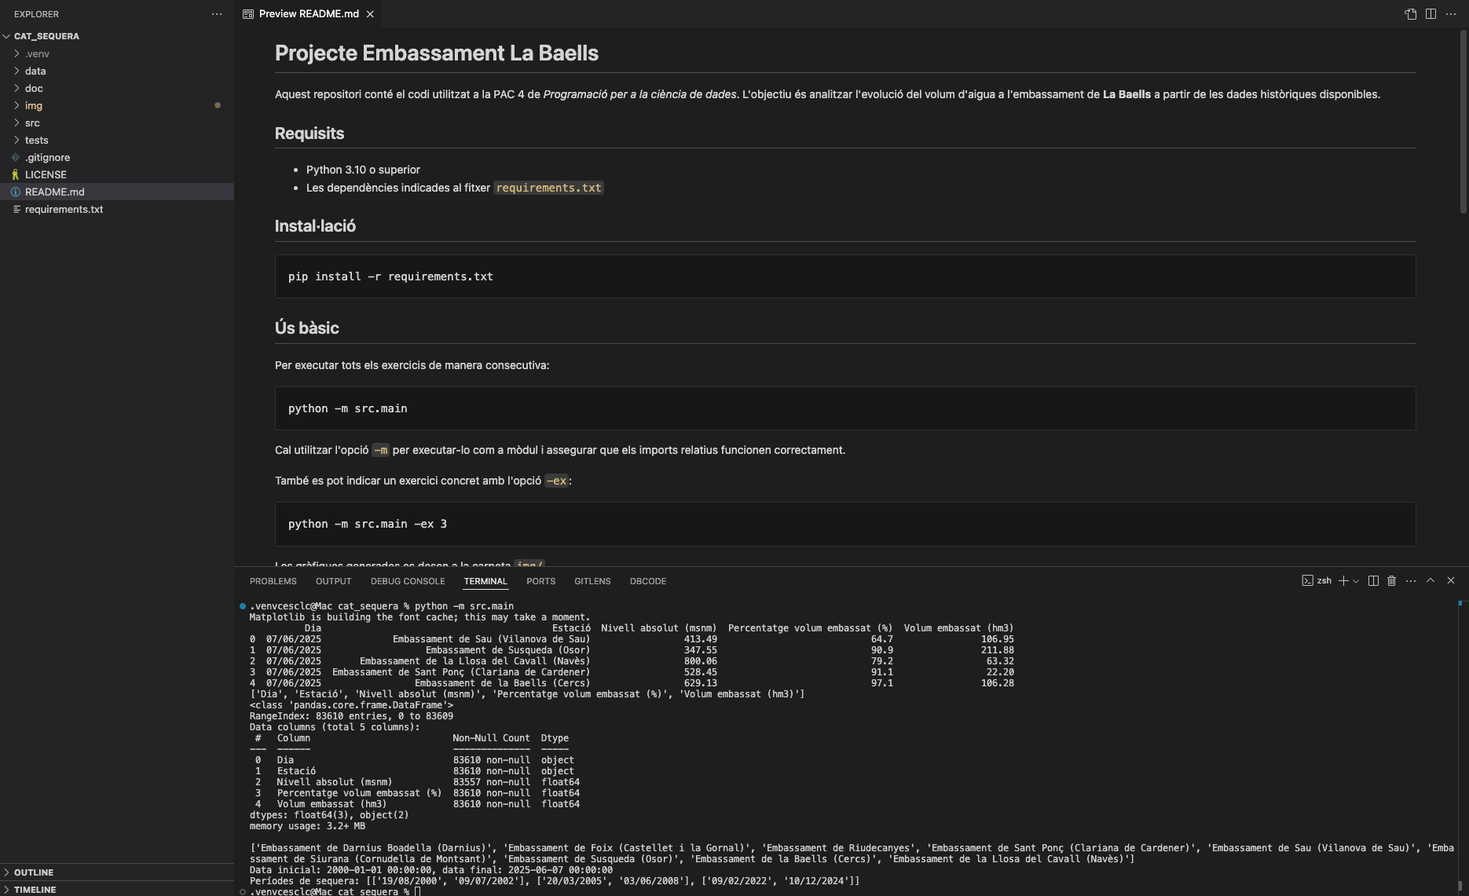
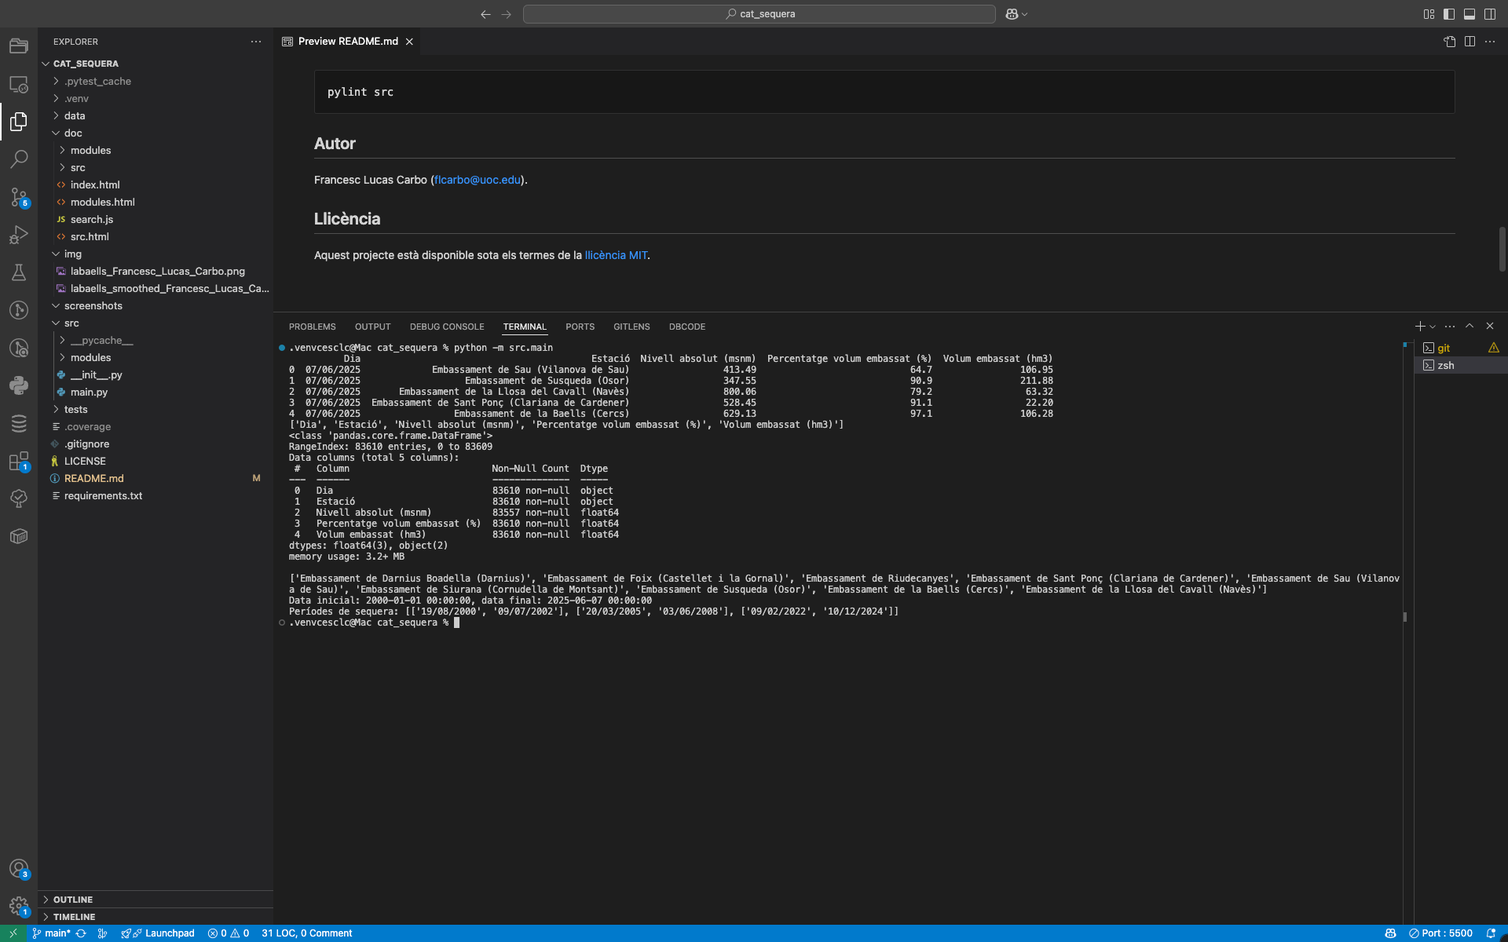
FInal

diff --git a/doc/src/modules/exercise5.html b/doc/src/modules/exercise5.html
@@ -62,26 +62,28 @@
 </span><span id="L-4"><a href="#L-4"><span class="linenos"> 4</span></a><span class="kn">import</span><span class="w"> </span><span class="nn">pandas</span><span class="w"> </span><span class="k">as</span><span class="w"> </span><span class="nn">pd</span>
 </span><span id="L-5"><a href="#L-5"><span class="linenos"> 5</span></a>
 </span><span id="L-6"><a href="#L-6"><span class="linenos"> 6</span></a>
-</span><span id="L-7"><a href="#L-7"><span class="linenos"> 7</span></a><span class="k">def</span><span class="w"> </span><span class="nf">calcula_periodes</span><span class="p">(</span><span class="n">df</span><span class="p">:</span> <span class="n">pd</span><span class="o">.</span><span class="n">DataFrame</span><span class="p">,</span> <span class="n">suau</span><span class="p">:</span> <span class="n">pd</span><span class="o">.</span><span class="n">Series</span><span class="p">,</span> <span class="n">llindar</span><span class="p">:</span> <span class="nb">float</span> <span class="o">=</span> <span class="mf">60.0</span><span class="p">)</span> <span class="o">-&gt;</span> <span class="n">List</span><span class="p">[</span><span class="n">List</span><span class="p">[</span><span class="n">pd</span><span class="o">.</span><span class="n">Timestamp</span><span class="p">]]:</span>
-</span><span id="L-8"><a href="#L-8"><span class="linenos"> 8</span></a><span class="w">    </span><span class="sd">&quot;&quot;&quot;Calcula els períodes on el senyal suavitzat està per sota del llindar.</span>
-</span><span id="L-9"><a href="#L-9"><span class="linenos"> 9</span></a>
-</span><span id="L-10"><a href="#L-10"><span class="linenos">10</span></a><span class="sd">    Retorna una llista amb les dates d&#39;inici i fi de cada període en format</span>
-</span><span id="L-11"><a href="#L-11"><span class="linenos">11</span></a><span class="sd">    ``pd.Timestamp``.</span>
-</span><span id="L-12"><a href="#L-12"><span class="linenos">12</span></a><span class="sd">    &quot;&quot;&quot;</span>
-</span><span id="L-13"><a href="#L-13"><span class="linenos">13</span></a>    <span class="n">en_sequera</span> <span class="o">=</span> <span class="n">suau</span> <span class="o">&lt;</span> <span class="n">llindar</span>
-</span><span id="L-14"><a href="#L-14"><span class="linenos">14</span></a>    <span class="n">periodes</span><span class="p">:</span> <span class="n">List</span><span class="p">[</span><span class="n">List</span><span class="p">[</span><span class="n">pd</span><span class="o">.</span><span class="n">Timestamp</span><span class="p">]]</span> <span class="o">=</span> <span class="p">[]</span>
-</span><span id="L-15"><a href="#L-15"><span class="linenos">15</span></a>    <span class="n">inici</span><span class="p">:</span> <span class="n">pd</span><span class="o">.</span><span class="n">Timestamp</span> <span class="o">|</span> <span class="kc">None</span> <span class="o">=</span> <span class="kc">None</span>
-</span><span id="L-16"><a href="#L-16"><span class="linenos">16</span></a>    <span class="k">for</span> <span class="n">idx</span><span class="p">,</span> <span class="n">en</span> <span class="ow">in</span> <span class="n">en_sequera</span><span class="o">.</span><span class="n">items</span><span class="p">():</span>
-</span><span id="L-17"><a href="#L-17"><span class="linenos">17</span></a>        <span class="k">if</span> <span class="n">en</span> <span class="ow">and</span> <span class="n">inici</span> <span class="ow">is</span> <span class="kc">None</span><span class="p">:</span>
-</span><span id="L-18"><a href="#L-18"><span class="linenos">18</span></a>            <span class="n">inici</span> <span class="o">=</span> <span class="n">df</span><span class="o">.</span><span class="n">loc</span><span class="p">[</span><span class="n">idx</span><span class="p">,</span> <span class="s1">&#39;dia&#39;</span><span class="p">]</span>
-</span><span id="L-19"><a href="#L-19"><span class="linenos">19</span></a>        <span class="k">elif</span> <span class="ow">not</span> <span class="n">en</span> <span class="ow">and</span> <span class="n">inici</span> <span class="ow">is</span> <span class="ow">not</span> <span class="kc">None</span><span class="p">:</span>
-</span><span id="L-20"><a href="#L-20"><span class="linenos">20</span></a>            <span class="n">fi</span> <span class="o">=</span> <span class="n">df</span><span class="o">.</span><span class="n">loc</span><span class="p">[</span><span class="n">idx</span> <span class="o">-</span> <span class="mi">1</span><span class="p">,</span> <span class="s1">&#39;dia&#39;</span><span class="p">]</span>
-</span><span id="L-21"><a href="#L-21"><span class="linenos">21</span></a>            <span class="n">periodes</span><span class="o">.</span><span class="n">append</span><span class="p">([</span><span class="n">inici</span><span class="p">,</span> <span class="n">fi</span><span class="p">])</span>
-</span><span id="L-22"><a href="#L-22"><span class="linenos">22</span></a>            <span class="n">inici</span> <span class="o">=</span> <span class="kc">None</span>
-</span><span id="L-23"><a href="#L-23"><span class="linenos">23</span></a>    <span class="k">if</span> <span class="n">inici</span> <span class="ow">is</span> <span class="ow">not</span> <span class="kc">None</span><span class="p">:</span>
-</span><span id="L-24"><a href="#L-24"><span class="linenos">24</span></a>        <span class="n">fi</span> <span class="o">=</span> <span class="n">df</span><span class="o">.</span><span class="n">loc</span><span class="p">[</span><span class="n">en_sequera</span><span class="o">.</span><span class="n">index</span><span class="p">[</span><span class="o">-</span><span class="mi">1</span><span class="p">],</span> <span class="s1">&#39;dia&#39;</span><span class="p">]</span>
-</span><span id="L-25"><a href="#L-25"><span class="linenos">25</span></a>        <span class="n">periodes</span><span class="o">.</span><span class="n">append</span><span class="p">([</span><span class="n">inici</span><span class="p">,</span> <span class="n">fi</span><span class="p">])</span>
-</span><span id="L-26"><a href="#L-26"><span class="linenos">26</span></a>    <span class="k">return</span> <span class="n">periodes</span>
+</span><span id="L-7"><a href="#L-7"><span class="linenos"> 7</span></a><span class="k">def</span><span class="w"> </span><span class="nf">calcula_periodes</span><span class="p">(</span>
+</span><span id="L-8"><a href="#L-8"><span class="linenos"> 8</span></a>    <span class="n">df</span><span class="p">:</span> <span class="n">pd</span><span class="o">.</span><span class="n">DataFrame</span><span class="p">,</span> <span class="n">suau</span><span class="p">:</span> <span class="n">pd</span><span class="o">.</span><span class="n">Series</span><span class="p">,</span> <span class="n">llindar</span><span class="p">:</span> <span class="nb">float</span> <span class="o">=</span> <span class="mf">60.0</span>
+</span><span id="L-9"><a href="#L-9"><span class="linenos"> 9</span></a>    <span class="p">)</span> <span class="o">-&gt;</span> <span class="n">List</span><span class="p">[</span><span class="n">List</span><span class="p">[</span><span class="n">pd</span><span class="o">.</span><span class="n">Timestamp</span><span class="p">]]:</span>
+</span><span id="L-10"><a href="#L-10"><span class="linenos">10</span></a><span class="w">    </span><span class="sd">&quot;&quot;&quot;Calcula els períodes on el senyal suavitzat està per sota del llindar.</span>
+</span><span id="L-11"><a href="#L-11"><span class="linenos">11</span></a>
+</span><span id="L-12"><a href="#L-12"><span class="linenos">12</span></a><span class="sd">    Retorna una llista amb les dates d&#39;inici i fi de cada període en format</span>
+</span><span id="L-13"><a href="#L-13"><span class="linenos">13</span></a><span class="sd">    ``pd.Timestamp``.</span>
+</span><span id="L-14"><a href="#L-14"><span class="linenos">14</span></a><span class="sd">    &quot;&quot;&quot;</span>
+</span><span id="L-15"><a href="#L-15"><span class="linenos">15</span></a>    <span class="n">en_sequera</span> <span class="o">=</span> <span class="n">suau</span> <span class="o">&lt;</span> <span class="n">llindar</span>
+</span><span id="L-16"><a href="#L-16"><span class="linenos">16</span></a>    <span class="n">periodes</span><span class="p">:</span> <span class="n">List</span><span class="p">[</span><span class="n">List</span><span class="p">[</span><span class="n">pd</span><span class="o">.</span><span class="n">Timestamp</span><span class="p">]]</span> <span class="o">=</span> <span class="p">[]</span>
+</span><span id="L-17"><a href="#L-17"><span class="linenos">17</span></a>    <span class="n">inici</span><span class="p">:</span> <span class="n">pd</span><span class="o">.</span><span class="n">Timestamp</span> <span class="o">|</span> <span class="kc">None</span> <span class="o">=</span> <span class="kc">None</span>
+</span><span id="L-18"><a href="#L-18"><span class="linenos">18</span></a>    <span class="k">for</span> <span class="n">idx</span><span class="p">,</span> <span class="n">en</span> <span class="ow">in</span> <span class="n">en_sequera</span><span class="o">.</span><span class="n">items</span><span class="p">():</span>
+</span><span id="L-19"><a href="#L-19"><span class="linenos">19</span></a>        <span class="k">if</span> <span class="n">en</span> <span class="ow">and</span> <span class="n">inici</span> <span class="ow">is</span> <span class="kc">None</span><span class="p">:</span>
+</span><span id="L-20"><a href="#L-20"><span class="linenos">20</span></a>            <span class="n">inici</span> <span class="o">=</span> <span class="n">df</span><span class="o">.</span><span class="n">loc</span><span class="p">[</span><span class="n">idx</span><span class="p">,</span> <span class="s1">&#39;dia&#39;</span><span class="p">]</span>
+</span><span id="L-21"><a href="#L-21"><span class="linenos">21</span></a>        <span class="k">elif</span> <span class="ow">not</span> <span class="n">en</span> <span class="ow">and</span> <span class="n">inici</span> <span class="ow">is</span> <span class="ow">not</span> <span class="kc">None</span><span class="p">:</span>
+</span><span id="L-22"><a href="#L-22"><span class="linenos">22</span></a>            <span class="n">fi</span> <span class="o">=</span> <span class="n">df</span><span class="o">.</span><span class="n">loc</span><span class="p">[</span><span class="n">idx</span> <span class="o">-</span> <span class="mi">1</span><span class="p">,</span> <span class="s1">&#39;dia&#39;</span><span class="p">]</span>
+</span><span id="L-23"><a href="#L-23"><span class="linenos">23</span></a>            <span class="n">periodes</span><span class="o">.</span><span class="n">append</span><span class="p">([</span><span class="n">inici</span><span class="p">,</span> <span class="n">fi</span><span class="p">])</span>
+</span><span id="L-24"><a href="#L-24"><span class="linenos">24</span></a>            <span class="n">inici</span> <span class="o">=</span> <span class="kc">None</span>
+</span><span id="L-25"><a href="#L-25"><span class="linenos">25</span></a>    <span class="k">if</span> <span class="n">inici</span> <span class="ow">is</span> <span class="ow">not</span> <span class="kc">None</span><span class="p">:</span>
+</span><span id="L-26"><a href="#L-26"><span class="linenos">26</span></a>        <span class="n">fi</span> <span class="o">=</span> <span class="n">df</span><span class="o">.</span><span class="n">loc</span><span class="p">[</span><span class="n">en_sequera</span><span class="o">.</span><span class="n">index</span><span class="p">[</span><span class="o">-</span><span class="mi">1</span><span class="p">],</span> <span class="s1">&#39;dia&#39;</span><span class="p">]</span>
+</span><span id="L-27"><a href="#L-27"><span class="linenos">27</span></a>        <span class="n">periodes</span><span class="o">.</span><span class="n">append</span><span class="p">([</span><span class="n">inici</span><span class="p">,</span> <span class="n">fi</span><span class="p">])</span>
+</span><span id="L-28"><a href="#L-28"><span class="linenos">28</span></a>    <span class="k">return</span> <span class="n">periodes</span>
 </span></pre></div>
 
 
@@ -97,26 +99,28 @@
 
     </div>
     <a class="headerlink" href="#calcula_periodes"></a>
-            <div class="pdoc-code codehilite"><pre><span></span><span id="calcula_periodes-8"><a href="#calcula_periodes-8"><span class="linenos"> 8</span></a><span class="k">def</span><span class="w"> </span><span class="nf">calcula_periodes</span><span class="p">(</span><span class="n">df</span><span class="p">:</span> <span class="n">pd</span><span class="o">.</span><span class="n">DataFrame</span><span class="p">,</span> <span class="n">suau</span><span class="p">:</span> <span class="n">pd</span><span class="o">.</span><span class="n">Series</span><span class="p">,</span> <span class="n">llindar</span><span class="p">:</span> <span class="nb">float</span> <span class="o">=</span> <span class="mf">60.0</span><span class="p">)</span> <span class="o">-&gt;</span> <span class="n">List</span><span class="p">[</span><span class="n">List</span><span class="p">[</span><span class="n">pd</span><span class="o">.</span><span class="n">Timestamp</span><span class="p">]]:</span>
-</span><span id="calcula_periodes-9"><a href="#calcula_periodes-9"><span class="linenos"> 9</span></a><span class="w">    </span><span class="sd">&quot;&quot;&quot;Calcula els períodes on el senyal suavitzat està per sota del llindar.</span>
-</span><span id="calcula_periodes-10"><a href="#calcula_periodes-10"><span class="linenos">10</span></a>
-</span><span id="calcula_periodes-11"><a href="#calcula_periodes-11"><span class="linenos">11</span></a><span class="sd">    Retorna una llista amb les dates d&#39;inici i fi de cada període en format</span>
-</span><span id="calcula_periodes-12"><a href="#calcula_periodes-12"><span class="linenos">12</span></a><span class="sd">    ``pd.Timestamp``.</span>
-</span><span id="calcula_periodes-13"><a href="#calcula_periodes-13"><span class="linenos">13</span></a><span class="sd">    &quot;&quot;&quot;</span>
-</span><span id="calcula_periodes-14"><a href="#calcula_periodes-14"><span class="linenos">14</span></a>    <span class="n">en_sequera</span> <span class="o">=</span> <span class="n">suau</span> <span class="o">&lt;</span> <span class="n">llindar</span>
-</span><span id="calcula_periodes-15"><a href="#calcula_periodes-15"><span class="linenos">15</span></a>    <span class="n">periodes</span><span class="p">:</span> <span class="n">List</span><span class="p">[</span><span class="n">List</span><span class="p">[</span><span class="n">pd</span><span class="o">.</span><span class="n">Timestamp</span><span class="p">]]</span> <span class="o">=</span> <span class="p">[]</span>
-</span><span id="calcula_periodes-16"><a href="#calcula_periodes-16"><span class="linenos">16</span></a>    <span class="n">inici</span><span class="p">:</span> <span class="n">pd</span><span class="o">.</span><span class="n">Timestamp</span> <span class="o">|</span> <span class="kc">None</span> <span class="o">=</span> <span class="kc">None</span>
-</span><span id="calcula_periodes-17"><a href="#calcula_periodes-17"><span class="linenos">17</span></a>    <span class="k">for</span> <span class="n">idx</span><span class="p">,</span> <span class="n">en</span> <span class="ow">in</span> <span class="n">en_sequera</span><span class="o">.</span><span class="n">items</span><span class="p">():</span>
-</span><span id="calcula_periodes-18"><a href="#calcula_periodes-18"><span class="linenos">18</span></a>        <span class="k">if</span> <span class="n">en</span> <span class="ow">and</span> <span class="n">inici</span> <span class="ow">is</span> <span class="kc">None</span><span class="p">:</span>
-</span><span id="calcula_periodes-19"><a href="#calcula_periodes-19"><span class="linenos">19</span></a>            <span class="n">inici</span> <span class="o">=</span> <span class="n">df</span><span class="o">.</span><span class="n">loc</span><span class="p">[</span><span class="n">idx</span><span class="p">,</span> <span class="s1">&#39;dia&#39;</span><span class="p">]</span>
-</span><span id="calcula_periodes-20"><a href="#calcula_periodes-20"><span class="linenos">20</span></a>        <span class="k">elif</span> <span class="ow">not</span> <span class="n">en</span> <span class="ow">and</span> <span class="n">inici</span> <span class="ow">is</span> <span class="ow">not</span> <span class="kc">None</span><span class="p">:</span>
-</span><span id="calcula_periodes-21"><a href="#calcula_periodes-21"><span class="linenos">21</span></a>            <span class="n">fi</span> <span class="o">=</span> <span class="n">df</span><span class="o">.</span><span class="n">loc</span><span class="p">[</span><span class="n">idx</span> <span class="o">-</span> <span class="mi">1</span><span class="p">,</span> <span class="s1">&#39;dia&#39;</span><span class="p">]</span>
-</span><span id="calcula_periodes-22"><a href="#calcula_periodes-22"><span class="linenos">22</span></a>            <span class="n">periodes</span><span class="o">.</span><span class="n">append</span><span class="p">([</span><span class="n">inici</span><span class="p">,</span> <span class="n">fi</span><span class="p">])</span>
-</span><span id="calcula_periodes-23"><a href="#calcula_periodes-23"><span class="linenos">23</span></a>            <span class="n">inici</span> <span class="o">=</span> <span class="kc">None</span>
-</span><span id="calcula_periodes-24"><a href="#calcula_periodes-24"><span class="linenos">24</span></a>    <span class="k">if</span> <span class="n">inici</span> <span class="ow">is</span> <span class="ow">not</span> <span class="kc">None</span><span class="p">:</span>
-</span><span id="calcula_periodes-25"><a href="#calcula_periodes-25"><span class="linenos">25</span></a>        <span class="n">fi</span> <span class="o">=</span> <span class="n">df</span><span class="o">.</span><span class="n">loc</span><span class="p">[</span><span class="n">en_sequera</span><span class="o">.</span><span class="n">index</span><span class="p">[</span><span class="o">-</span><span class="mi">1</span><span class="p">],</span> <span class="s1">&#39;dia&#39;</span><span class="p">]</span>
-</span><span id="calcula_periodes-26"><a href="#calcula_periodes-26"><span class="linenos">26</span></a>        <span class="n">periodes</span><span class="o">.</span><span class="n">append</span><span class="p">([</span><span class="n">inici</span><span class="p">,</span> <span class="n">fi</span><span class="p">])</span>
-</span><span id="calcula_periodes-27"><a href="#calcula_periodes-27"><span class="linenos">27</span></a>    <span class="k">return</span> <span class="n">periodes</span>
+            <div class="pdoc-code codehilite"><pre><span></span><span id="calcula_periodes-8"><a href="#calcula_periodes-8"><span class="linenos"> 8</span></a><span class="k">def</span><span class="w"> </span><span class="nf">calcula_periodes</span><span class="p">(</span>
+</span><span id="calcula_periodes-9"><a href="#calcula_periodes-9"><span class="linenos"> 9</span></a>    <span class="n">df</span><span class="p">:</span> <span class="n">pd</span><span class="o">.</span><span class="n">DataFrame</span><span class="p">,</span> <span class="n">suau</span><span class="p">:</span> <span class="n">pd</span><span class="o">.</span><span class="n">Series</span><span class="p">,</span> <span class="n">llindar</span><span class="p">:</span> <span class="nb">float</span> <span class="o">=</span> <span class="mf">60.0</span>
+</span><span id="calcula_periodes-10"><a href="#calcula_periodes-10"><span class="linenos">10</span></a>    <span class="p">)</span> <span class="o">-&gt;</span> <span class="n">List</span><span class="p">[</span><span class="n">List</span><span class="p">[</span><span class="n">pd</span><span class="o">.</span><span class="n">Timestamp</span><span class="p">]]:</span>
+</span><span id="calcula_periodes-11"><a href="#calcula_periodes-11"><span class="linenos">11</span></a><span class="w">    </span><span class="sd">&quot;&quot;&quot;Calcula els períodes on el senyal suavitzat està per sota del llindar.</span>
+</span><span id="calcula_periodes-12"><a href="#calcula_periodes-12"><span class="linenos">12</span></a>
+</span><span id="calcula_periodes-13"><a href="#calcula_periodes-13"><span class="linenos">13</span></a><span class="sd">    Retorna una llista amb les dates d&#39;inici i fi de cada període en format</span>
+</span><span id="calcula_periodes-14"><a href="#calcula_periodes-14"><span class="linenos">14</span></a><span class="sd">    ``pd.Timestamp``.</span>
+</span><span id="calcula_periodes-15"><a href="#calcula_periodes-15"><span class="linenos">15</span></a><span class="sd">    &quot;&quot;&quot;</span>
+</span><span id="calcula_periodes-16"><a href="#calcula_periodes-16"><span class="linenos">16</span></a>    <span class="n">en_sequera</span> <span class="o">=</span> <span class="n">suau</span> <span class="o">&lt;</span> <span class="n">llindar</span>
+</span><span id="calcula_periodes-17"><a href="#calcula_periodes-17"><span class="linenos">17</span></a>    <span class="n">periodes</span><span class="p">:</span> <span class="n">List</span><span class="p">[</span><span class="n">List</span><span class="p">[</span><span class="n">pd</span><span class="o">.</span><span class="n">Timestamp</span><span class="p">]]</span> <span class="o">=</span> <span class="p">[]</span>
+</span><span id="calcula_periodes-18"><a href="#calcula_periodes-18"><span class="linenos">18</span></a>    <span class="n">inici</span><span class="p">:</span> <span class="n">pd</span><span class="o">.</span><span class="n">Timestamp</span> <span class="o">|</span> <span class="kc">None</span> <span class="o">=</span> <span class="kc">None</span>
+</span><span id="calcula_periodes-19"><a href="#calcula_periodes-19"><span class="linenos">19</span></a>    <span class="k">for</span> <span class="n">idx</span><span class="p">,</span> <span class="n">en</span> <span class="ow">in</span> <span class="n">en_sequera</span><span class="o">.</span><span class="n">items</span><span class="p">():</span>
+</span><span id="calcula_periodes-20"><a href="#calcula_periodes-20"><span class="linenos">20</span></a>        <span class="k">if</span> <span class="n">en</span> <span class="ow">and</span> <span class="n">inici</span> <span class="ow">is</span> <span class="kc">None</span><span class="p">:</span>
+</span><span id="calcula_periodes-21"><a href="#calcula_periodes-21"><span class="linenos">21</span></a>            <span class="n">inici</span> <span class="o">=</span> <span class="n">df</span><span class="o">.</span><span class="n">loc</span><span class="p">[</span><span class="n">idx</span><span class="p">,</span> <span class="s1">&#39;dia&#39;</span><span class="p">]</span>
+</span><span id="calcula_periodes-22"><a href="#calcula_periodes-22"><span class="linenos">22</span></a>        <span class="k">elif</span> <span class="ow">not</span> <span class="n">en</span> <span class="ow">and</span> <span class="n">inici</span> <span class="ow">is</span> <span class="ow">not</span> <span class="kc">None</span><span class="p">:</span>
+</span><span id="calcula_periodes-23"><a href="#calcula_periodes-23"><span class="linenos">23</span></a>            <span class="n">fi</span> <span class="o">=</span> <span class="n">df</span><span class="o">.</span><span class="n">loc</span><span class="p">[</span><span class="n">idx</span> <span class="o">-</span> <span class="mi">1</span><span class="p">,</span> <span class="s1">&#39;dia&#39;</span><span class="p">]</span>
+</span><span id="calcula_periodes-24"><a href="#calcula_periodes-24"><span class="linenos">24</span></a>            <span class="n">periodes</span><span class="o">.</span><span class="n">append</span><span class="p">([</span><span class="n">inici</span><span class="p">,</span> <span class="n">fi</span><span class="p">])</span>
+</span><span id="calcula_periodes-25"><a href="#calcula_periodes-25"><span class="linenos">25</span></a>            <span class="n">inici</span> <span class="o">=</span> <span class="kc">None</span>
+</span><span id="calcula_periodes-26"><a href="#calcula_periodes-26"><span class="linenos">26</span></a>    <span class="k">if</span> <span class="n">inici</span> <span class="ow">is</span> <span class="ow">not</span> <span class="kc">None</span><span class="p">:</span>
+</span><span id="calcula_periodes-27"><a href="#calcula_periodes-27"><span class="linenos">27</span></a>        <span class="n">fi</span> <span class="o">=</span> <span class="n">df</span><span class="o">.</span><span class="n">loc</span><span class="p">[</span><span class="n">en_sequera</span><span class="o">.</span><span class="n">index</span><span class="p">[</span><span class="o">-</span><span class="mi">1</span><span class="p">],</span> <span class="s1">&#39;dia&#39;</span><span class="p">]</span>
+</span><span id="calcula_periodes-28"><a href="#calcula_periodes-28"><span class="linenos">28</span></a>        <span class="n">periodes</span><span class="o">.</span><span class="n">append</span><span class="p">([</span><span class="n">inici</span><span class="p">,</span> <span class="n">fi</span><span class="p">])</span>
+</span><span id="calcula_periodes-29"><a href="#calcula_periodes-29"><span class="linenos">29</span></a>    <span class="k">return</span> <span class="n">periodes</span>
 </span></pre></div>
 
 

diff --git a/README.md b/README.md
@@ -55,6 +55,10 @@ Aquest projecte utilitza **pylint** per comprovar l'estil de codi:
 pylint src
 ```
 
+## Autor
+
+Francesc Lucas Carbo (flcarbo@uoc.edu).
+
 ## Llicència
 
 Aquest projecte està disponible sota els termes de la [llicència MIT](LICENSE).
